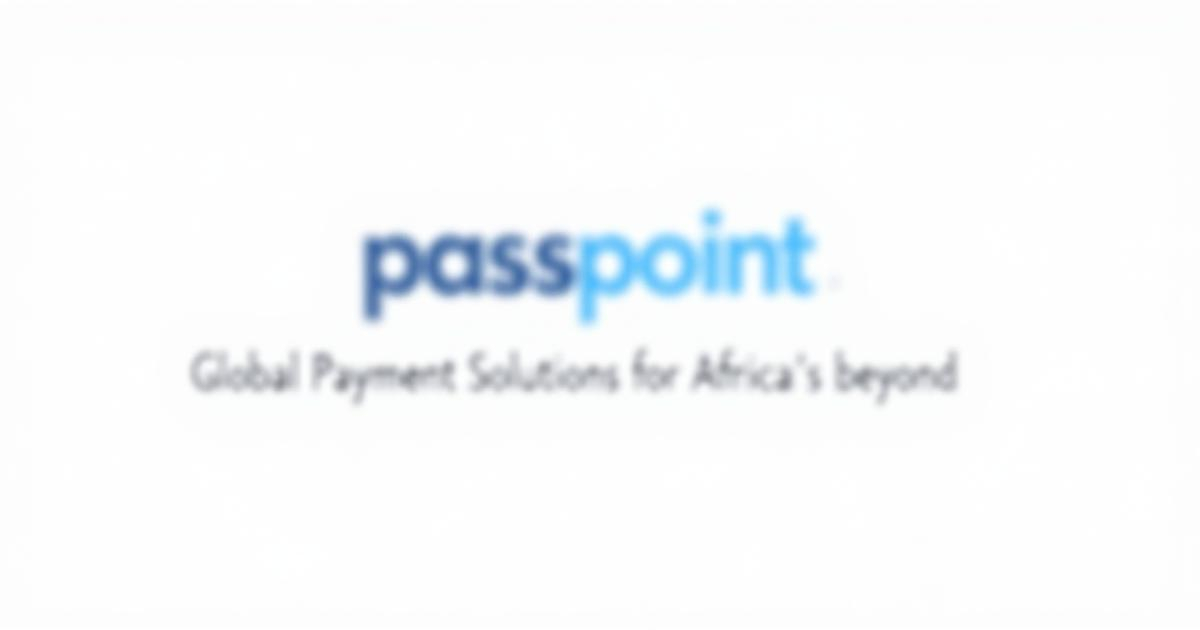
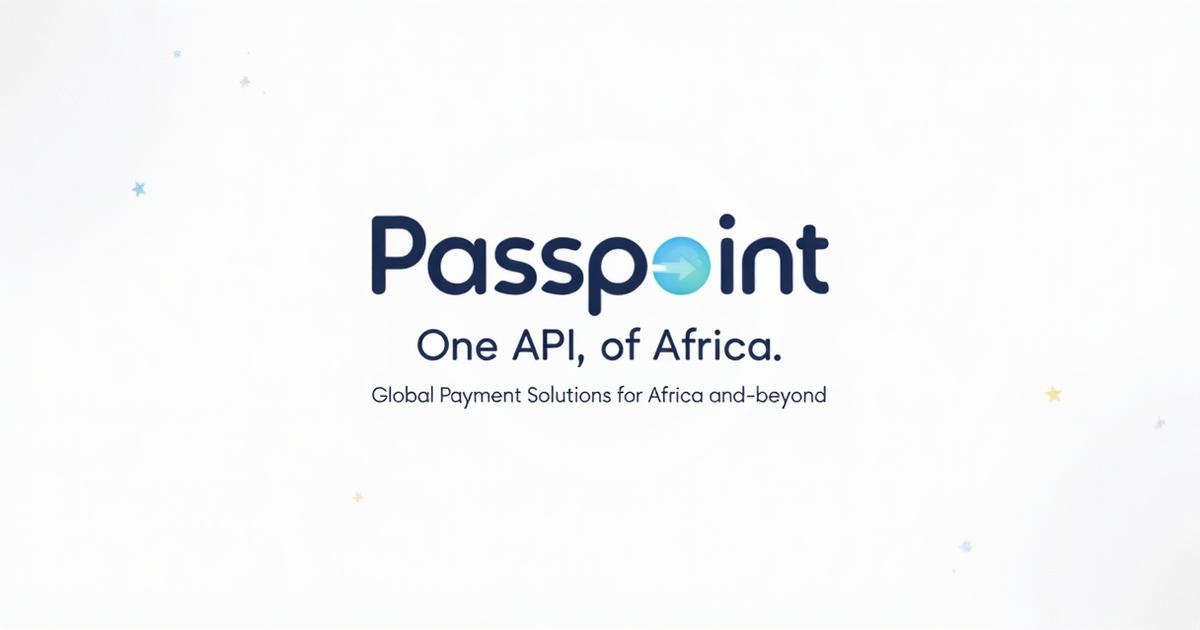
updated the social preview

Changed region(s): [[0.1542, 0.3317, 0.8017, 0.6635], [0.8633, 0.6032, 0.8942, 0.6333], [0.0925, 0.2714, 0.1233, 0.3016]]

diff --git a/index.html b/index.html
@@ -8,6 +8,7 @@
     <meta name="description" content="Connect all African payment methods with one powerful API. Seamless pay-in and payout solutions across Africa and globally." />
     <meta name="author" content="Passpoint" />
     <link rel="icon" href="/lovable-uploads/60428777-b47c-4a60-bba0-9acdf2082401.png" type="image/png">
+    <link rel="stylesheet" href="https://fonts.googleapis.com/css2?family=Inter:wght@300;400;500;600;700;800&display=swap">
 
     <meta property="og:title" content="Passpoint - One API, One Africa | Global Payment Solutions" />
     <meta property="og:description" content="Connect all African payment methods with one powerful API. Seamless pay-in and payout solutions across Africa and globally." />

diff --git a/tailwind.config.ts b/tailwind.config.ts
@@ -19,6 +19,9 @@ export default {
 			}
 		},
 		extend: {
+			fontFamily: {
+				sans: ['Inter', 'system-ui', '-apple-system', 'sans-serif'],
+			},
 			colors: {
 				border: 'hsl(var(--border))',
 				input: 'hsl(var(--input))',
